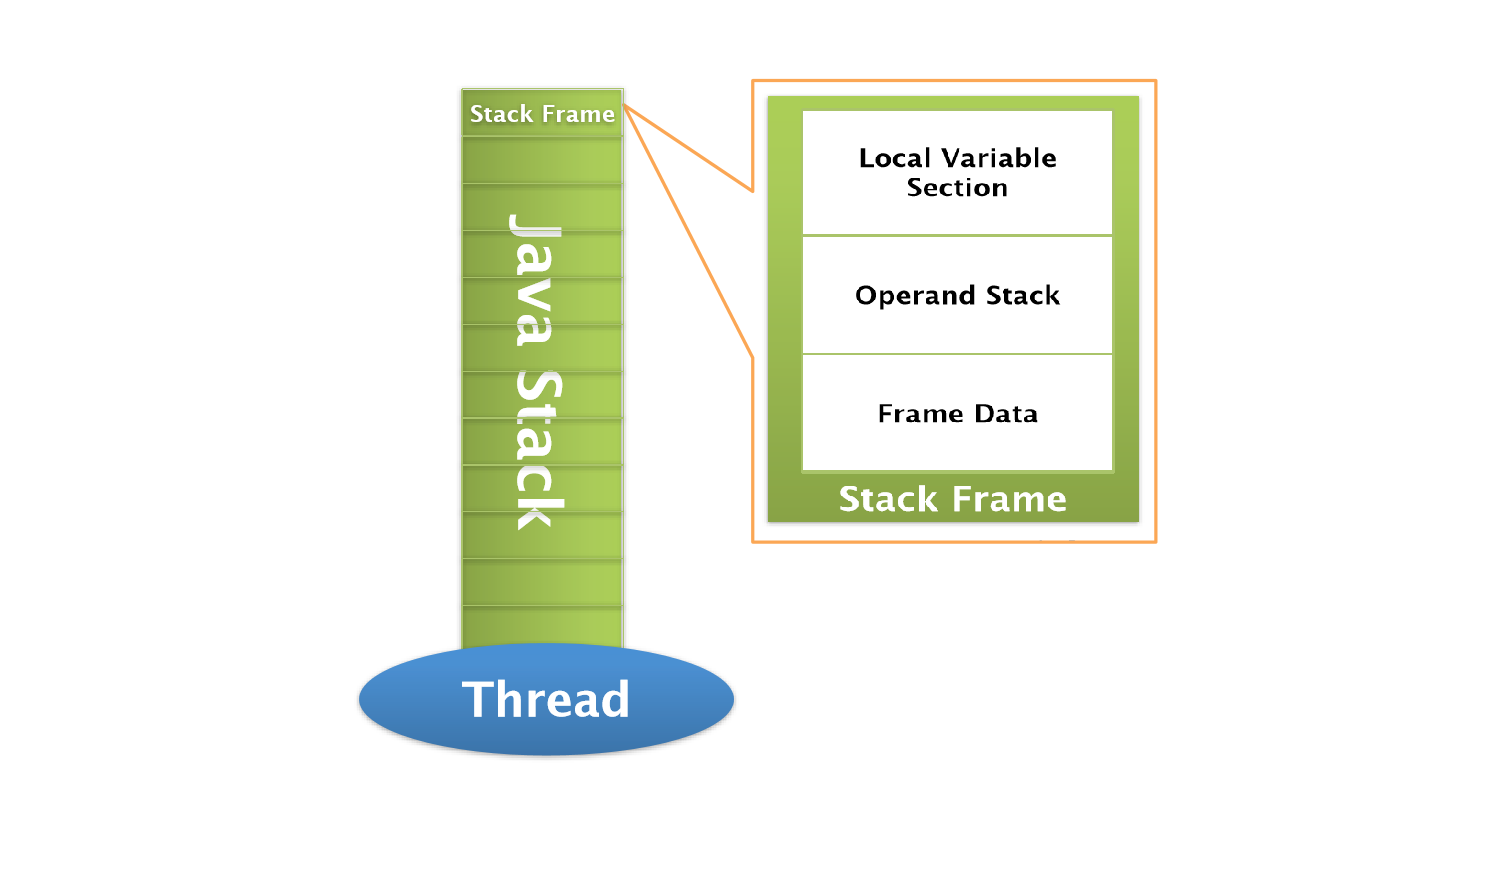
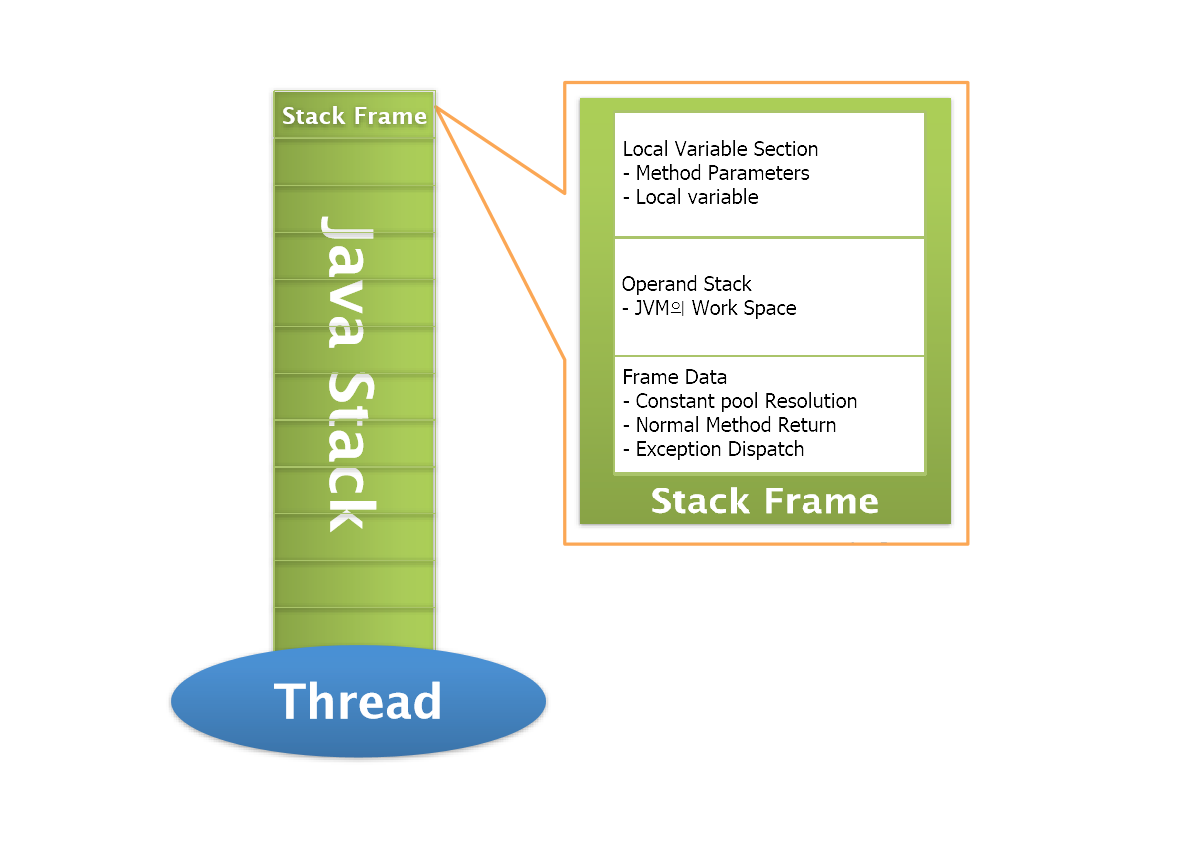
[add] JVM Stacks 정리

Changed region(s): [[0.124, 0.0913, 0.8367, 0.9133]]

diff --git a/java/jvm/ch2/ch2.md b/java/jvm/ch2/ch2.md
@@ -36,31 +36,155 @@ Runtime Data Areas는 각각의 목적에 따라 5개의 영역으로 나뉜다.
 
 프로그램의 실행은 CPU에서 명령어, 즉 인스트럭션(Instruction)을 수행하는 과정에서 이루어진다. CPU는 이러한 Instruction을 수행하는 동안 필요한 정보를 레지스터라는 CPU내의 기억장치를 사용한다. 이 레지스터는 CPU마다 다르게 구현될 수 있는데 보통 하나의 CPU는 수십 개의 레지스터를 가지고 있다.
 
-그러나 Runtime Data Areas의 메모리 영역인 PC Registers는 이것과 다르다. 자바는 Register-Base가 아니라 Stack-Base로 작동한다. JVM은 CPU에 직접 Instruction을 수행하지 않고 Stack에서 Operand를 뽑아내어 이를 별도의 메모리 공간에 저장하는 방식을 취하고 잇다. 이러한 메모리 공간을 PC Registers라고 한다.
+그러나 Runtime Data Areas의 메모리 영역인 PC Registers는 이것과 다르다. 자바는 Register-Base가 아니라 **Stack-Base**로 작동한다. **JVM은 CPU에 직접 Instruction을 수행하지 않고 Stack에서 Operand를 뽑아내어 이를 별도의 메모리 공간에 저장하는 방식**을 취하고 잇다. 이러한 메모리 공간을 PC Registers라고 한다.
 
-JVM이 이러한 방식을 취한 이유는 레지스터는 CPU에 종속된 것이기 때문이다. 자바는 플랫폼에 독립적이지만 머신의 리소스를 사용하기 위해 현재 작업 내용을 CPU에 Instruction으로 제공해야 한다. 이를 ㅜ이한 버퍼공간으로 PC Registers라는 메모리 영역을 생성한 것이다.
+JVM이 이러한 방식을 취한 이유는 레지스터는 CPU에 종속된 것이기 때문이다. 자바는 플랫폼에 독립적이지만 머신의 리소스를 사용하기 위해 현재 작업 내용을 CPU에 Instruction으로 제공해야 한다. 이를 위한 버퍼공간으로 PC Registers라는 메모리 영역을 생성한 것이다.
 
-이 PC Registers에는 각 Thread 마다 하나씩 존재하며 Thread가 시작할 때 생성된다. 만약 Thread가 Java Method를 수행하고 있으면 이 PC Registers에는 현재 수행 중인 Java Virtual Machine Instruction의 주소를 가지고 있게 된다. C어넝 등으로 Native Method를 수행하고 있다면 PC Registers는 undefined상태로 있게 된다. 이 PC Registers에 저장되는 Instruction의 주소는 Native Pointer일수도 Method Bytecode의 시작점 일수도 있다.
+이 PC Registers에는 **각 Thread 마다 하나씩 존재하며 Thread가 시작할 때 생성**된다. 만약 Thread가 Java Method를 수행하고 있으면 이 PC Registers에는 현재 수행 중인 Java Virtual Machine Instruction의 주소를 가지고 있게 된다. C언어 등으로 Native Method를 수행하고 있다면 PC Registers는 undefined상태로 있게 된다. 이 PC Registers에 저장되는 Instruction의 주소는 Native Pointer일수도 Method Bytecode의 시작점 일수도 있다.
 
 Native Method를 수행할 때는 JVM을 거치지 않고 바로 수행하게 된다. 어차피 Native Code는 플랫폼에 종속될 수 밖에 없기 때문에 JVM을 경유할 필요가 없기 때문이다. 
 
 
 
-
-
-
-
 ## Java Virtual Machine Stacks
 
+JVM Stacks은 Thread의 수행 정보를 기록하는 Frame을 저장하는 메모리 영역이다. JVM Stacks도 Thread별로 하나씩 존재하며 Thread가 시작할 때 생성된다. JVM Stacks에 있는 모든 데이터는 각 Thread가 소유하며 다른 Thread는 접근이 불가능하다. 따라서 JVM Stacks에서는 동기화에 대한 이슈가 발생하지 않는다.
+
+JVM Stacks는 Stack Frame들로 구성이 되는데 JVM은 Stack Frame을 JVM Stacks에 push, pop 작업만 수행한다. 흔히 WAS나 Java Application에 문제가 있을때 `kill -3 pid` 로 Stack Trace, Stack Dump를 얻어내어 분석을 하는데 이 때 나타나는 정보가 JVM Stacks의 Stack Frame의 정보이다. Stack Trace는 각 Strack Frame을 한 라인으로 표현한 것이다.
+
+![](C:\pch\TIL\java\jvm\ch2\JVMStack.png)
+
+위는 JVM Stacks의 구조를 나타낸 것이다. JVM Stacks에 있는 여러 Stack Frame중 현재 수행하고 있는 메서드의 정보를 저장하는 것을 Current Frame이라고 한다. 그리고 현재 수행하고 있는 메서드의 클래스를 Current Class라고 한다. JVM이 현재 메서드를 수행하고 있다면 Current Frame을 통해 Current Class와 같은 Current정보를 계속해서 주시하게 된다. 이 Stack Frame에는 메서드의 파라미터 변수, 지역 변수, 연산의 결과 등과 같은 데이터들을 저장하게 된다.
+
+쓰레드가 자바 메서드를 하나 수행하게 되면 JVM은 Stack Frame을 하나 생성하여 JVM Stacks에 push한다. 새로 들어간 Stack Frame은 Current Frame이 된다. 이 메서드가 수행을 마치게 되면 JVM Stacks에서 pop되고 바로 이전의 Stack Frame이 Current Frame이 된다. 만약 메서드가 비정상 종료하게 되면 Exception처리를 하는 작업을 수행한 후 JVM Stacks에서 사라지게 된다.
+
+JVM Stacks 및 Stack Frame은 JVM과 마찬가지로 벤더에서 구현하기 나름이다. 이것은 JVM 구현 벤더의 재량이다.
 
 
-Stack Frame
+
+### Stack Frame
+
+Stack Frame은 쓰레드가 수행하고 있는 어플리케이션을 메서드 단위로 기록하는 곳이다. 메서드의 상태 정보를 저장하는 Stack Frame은 `Local Variable Section, Operand Stack, Frame Data` 세 부분으로 구성되어 있다. Stack Frame은 메서드를 실행하게 되면 클래스의 메타 정보를 이용하여 적절한 크기로 생성된다. 그러나 Stack Frame의 크기는 가변이 아니며 컴파일 타임에 이미 결정된다. 이것은 메서드 내에서 사용하는 변수, 연산에 관련된 내용, 반환값의 타입등이 이미 소스코드내에서 결정되기 때문이다. JVM은 생성된 Stack Frame을 JVM Stacks에 push하고 메서드를 수행한다.
+
+
+
+#### LocalVariable Section
+
+LocalVariable Section은 `메서드의 파라미터 변수`와 `지역변수`들을 저장한다. LocalVariable Section은 배열로 구성되어 있고 인덱스를 통해 데이터에 접근한다. 메서드 파라미터는 선언된 순서로 인덱스가 할당되며 지역 변수는 컴파일러가 알아서 인덱스를 할당한다. 만약 선언만 하고 사용하지 않는 지역 변수가 있다면 인덱스를 할당하지 않을수도 있다.
+
+Stack Frame의 크기는 컴파일 타임에 결정된다고 했다. LocalVariable Section 또한 Stack Frame의 일부이므로 동일하게 적용된다. 지역변수나 파라미터 변수가 Primitive Type인 경우는 고정된 크기로 할당된다. 반면에 객체 타입일 때는 가변 크기이다. 또한 Primitive Type과 객체 타입인 경우 LocalVariable Section에 저장되는 값이 다르다. 
+
+```java
+class JvmInternal {
+    public int testMethod(int a, char b, long c, float d, Object e, doube f, String g, byte b, short i, boolean j) {
+        return 0;
+    }
+}
+```
+
+![](./methodParameter.png)
+
+위의 testMethod()는 10개의 파라미터를 가지며 LocalVariable Section에는 위의 그림과 같이 할당 받게 된다. Primitive Type인 경우 그대로 할당을 받지만, 객체 타입으로 선언한 e, g의 경우 reference형으로 할당을 받는다. 
+
+Java는 모든 객체를 Reference로 넘겨 받으며 모든 객체가 저장되는 곳은 Heap 메모리 영역이다. JVM Stacks, Stack Frame, Local Variable Section에도 Reference를 저장한다. 이 Reference를 이용해서 객체가 저장되어 있는 Heap을 찾아가는 것이다.
+
+따라서 Primitive 타입이 좀더 성능이 좋다는 것을 알 수 있다. 객체 타입은 다시 LocalVariable Section에서 Reference를 타고 Heap으로 넘어가야 하기 때문이다. 이렇게 객체를 찾는 작업은 CPU연산을 필요로 한다. 또한 Heap에 변수 값이 존재한다는 것은 Method Area의 java.lang.someclass의 클래스 정보를 읽어 인스턴스를 생성했다는 것을 의미하기 때문에 이로 인한 CPU자원, 메모리 자원도 추가되었을 것이다.
+
+이상한 점은 char, byte, short, boolean형 선언들이 LocalVariable Section에서는 모두 int형으로 할당된 것을 볼 수 있다. 이것은 Primitive Type이라 하더라도 JVM 지원 여부와 JVM Stacks의 저장 형태에 따라 달라지기 때문이다. boolean형을 제외한 모든 원시타입은 JVM이 직접적으로 지원하는 형태이다. 하지만 byte, short, char은 LocalVariable Section, Operand Stack에서는 int형으로 변환 후 저장되고 Heap 등의 다른 곳에서는 원래의 형으로 원복하여 저장한다.
+
+JVM에서 직접 지원하고 있지 않는 형태의 boolean의 경우도 Stack Frame에서는 int형으로 변경되어 저장된다. 하지만 JVM 내부에서 원복되는 일은 없다. 즉 Heap이나 다른 메모리 영역에서도 int형을 유지하는 것이다.
+
+또 한가지 이상한 점은 인덱스 숫자가 비연속적으로 할당되어 있는 부분이 있다는 것이다. long형, double형에서 인덱스 값이 비연속적인데 그것은 다른 원시타입이 1개의 엔트리로 저장되는데 반해 long, double형은 연속된 2개의 엔트리를 차지하는 대형 타입이기 때문이다. LocalVariable Section에서는 이 두 타입을 찾아갈 때 첫 엔트리의 인덱스를 통해 찾아간다. 
+
+마지막으로 봐야 할 부분은 0번 인덱스에 있다. 0번 인덱스는 `hidden this`라고 되어 있다. 이것은 메서드에서 선언된 적이 없는 파라미터 변수이다. 이것은 Local Method, Instance Method에 무조건 포함되는 것으로 여기에 저장된 Reference를 통해 Heap에 있는 클래스의 인스턴스 데이터를 찾아가게 된다.
+
+하지만 Class Method, 즉 static으로 선언한 메서드의 경우는 이 Reference 정보가 존재하지 않는다. 이것은 인스턴스가 아닌 클래스 자체에 속해 있기 때문이다.
+
+
+
+#### Operand Stack
+
+Operand Stack는 JVM의 작업공간이라 할 수 있다. JVM은 프로그래믕ㄹ  수행함녀서 연산을 위해 사용되는 데이터, 결과를 Operand Stack에 넣고 처리하기 때문이다. 하나의 Instruction이 연산을 위해 Operand Stack에 값을 push하고 다음 Instruction에서 이 값을 pop해서 사용하게 된다. 그리고 그 결과가 다시 Operand Stack에 저장되어 보내지게 된다. (`javap -c 클래스파일`  명령어 사용)
+
+![](./operationProcess.png)
+
+```
+Stack Frame에서 byte, short형은 내부에서 int형으로 변환되어 사용된다. 하지만 값의 범위에 따라 내부적으로 구분되어 -128 ~ -1 & 6 ~ 127 까지의 정수는 byte로 인식된다. 그리고 128 ~ 32767까지는 short로 인식한다. 만약 6을 pushgksekaus byte 범위안이므로 bipush라는 Bytecode로 처리되는 것이다.
+```
+
+
+
+```
+iconst_5 : 상수5를 push
+istore_1 : LocalVariable Section의 1번 인덱스에 값을 저장
+bipush 6 : 상수6을 Stack에 push
+istore_2 : LocalVariable Section의 2번 인덱스에 값을 저장
+iload_1  : LocalVariable Section의 1번 인덱스의 값을 Operand Stack에 로드
+iload_2  : LocalVariable Section의 2번 인덱스의 값을 Operand Stack에 로드
+iadd     : int형의 값들을 더한다. 
+           연산 대상이 되는 Operand Stack 값들이 모두 pop되고 결과값이 push된다. 
+istore_3 : LocalVariable Section의 3번 인덱스에 값을 저장
+return   : 메서드의 수행을 마치고 Stack Frame을 나간다
+```
+
+
+
+#### Frame Data
+
+Stack Frame을 구성하고 있는 또 하나의 영역은 Frame Data이다. 이곳에는 Constant Pool Resolution 정보와 메서드가 정상 종료했을 때의 정보들, 비정상 종료 했을 때 발생하는 Exception 관련 정보들을 저장하고 있다.
+
+먼저 Resolution의 의미를 살펴보자. Class File Format에서 Java는 모든 참조 정보를 Symbolic Reference로 가지고 있다. 이 Symbolic Reference는 JVM에서 실제로 접근할 수 있는 Direct Reference로 변경이 되는데 이러한 것을 Resolution이라 한다. 즉 Symbolic Reference로 표현된 Entry를 찾아 Direct Reference로 변경하는 과정을 말한다.
+
+클래스의 모든 Symbolic Reference는 Method Area의 Constant Pool 에 저장되기 때문에 Resolution을 Constant Pool Resolution 이라고 부르는 것이다. Constant Pool 은 Method Area에서 다룬다.
+
+Frame Data에 저장된 Constant Pool Resolution 정보의 정체는 관련 Constant Pool 의 포인터 정보이다. JVM은 이 포인터를 이용하여 필요할 때마다 Constant Pool 를 찾아간다.
+
+상수를 가져올 때 Constant Pool 의 엔트리 정보를 참조하기도 하지만 다른 클래스를 참조하거나 메서드를 수행하거나 특정 변수들을 접근할 때에도 Constant Pool을 참조해야 한다. 즉 자바의 모든 Reference는 Symbolic Reference 이기 때문에 클래스, 메서드, 변수, 상수에 접근할 때도 Resolution이 수행된다. 그리고 특정 객체가 특정 클래스나 인터페이스에 의존관계가 있는지 확인하기 위해서도 Constant Pool 의 엔트리를 참조한다.
+
+메서드가 수행을 마치고 종료하는 시점에 JVM Stacks에서 해당 Stack Frame이 pop되어 사라진다. 그리고 이전의 메서드를 호출했던 메서드의 Stack Frame이 Current Frame이 된다. 그런데 JVM Stacks에 존재하는 여러 Stack Frame 중에 어떤 Stack Frame으로 찾아 돌아가야 하는 것일까? 그 답은 바로 Frame Data에 있다.
+
+Frame Data에는 자신을 호출한 Stack Frame의 Instruction Pointer가 들어가 있다. 메서드가 종료되면 JVM은 이 정보를 PC Register에 설정하고 Stack Frame을 빠져 나간다. 만약 메서드가 반환값이 있다면 다음번 Current Frame의 Operand Stack에 Push하는 작업도 병행한다.
+
+만약 메서드가 Exception을 발생시키고 강제 종료되었을 경우에는 Exxception을 핸들림 해주어야 한다. 이러한 Excpetion정보를 Frame Data에 저장하고 있다. Frame Data에서 관리하는 Exception정보는 Exception Tabld의 Reference이다. 각 클래스 파일은 Exception Table을 가지고 있는데 Exception이 발생하면 JVM은 이를 참조하여 catch절에 해당하는 Bytecode로 점프하게 된다.
+
+![](./exceptionBytecode.png)
+
+Exception Table은 4가지 요소로 구성된다. 
+
+- from은 try블록이 시작되는 Bytecode의 엔트리 넘버를 의미
+- to는 try블록이 끝나는 엔트리 넘버를 의미
+- target은 try가 발생했을 때 점프해야 할 엔트리 넘버를 의미
+- type은 정의한 Exception을 의미
+
+try블록 내에서 Exception이 발생하거나 Throw되면 이 Exception Object가 type의 클래스 정보와 비교하게 된다. 만약 클래스 정보와 일치하게 되면 target으로 점프하여 수행하고, 일치하지 않으면 JVM은 Current Frame을 종료하고 이 메서드를 호출한 메서드의 Stack Frame에 이 Exception을 다시 던져 처리를 반복한다.
+
+
 
 
 
 ## Native Method Stacks
 
+자바는 자바외의 언어로 작성된 프로그램 등과의 통합을 위해서 JNI(Java Native Interface) 라는 표준 규약을 제공하고 있다. 즉 Native Code로 되어 있는 Fuction의 호출을 Java 프로그램 내에서 직접 수행할 수도 있고 결과 값을 받아 올 수도 있다.
 
+자바의 메서드 호출은 새로운 Stack Frame을 생성하여 쓰레드의 JVM Stack에 push한다. 
+
+Native Method의 경우에는 Native Method Stacks 라는 메모리 공간이 존재한다. 어플리케이션에서 Native Method 를 호출하게 되면 자바 메서드의 Stack Frame이 있는 JVM Stacks를 남겨두고 Native Method Stacks에 새로운 Stack Frame을 생성하여 push하고 여기서 Native Method 를 계속 수행하게 된다.
+
+Native Method Stacks는 작성한 언어에 맞게 생성된다. Native Method 가 C로 작성되어 있었다면 C Stack이 생성되어 수행되고 C++로 작성이 되었다면 C++ Stack이 생성된다. 또한 Native Method 도 역시 Stack Operation을 수행하게 된다. Native Method Stacks는 고정 크기일 필요는 없고 어플리케이션에 따라 확대, 축소가 가능하다.
+
+Native Method 수행이 끝나면 다시 Native Method Stacks에서 나와 해당 쓰레드의 JVM Stacks로 돌아오게 된다. 하지만 Native Method를 호출한 Stack Frame으로 다시 돌아가는 것이 아니라 새로운 Stack Frame을 하나 생성하여 여기서 다시 작업을 수행하게 된다.
+
+아래 그림에서는 쓰레드가 Method1을 수행하다가 Native Method를 Call하고 쓰레드는 다시 NativeMethodStack에 Stack Frame을 생성하여 2개의 함수를 수행하고 다시 돌아온다. 이 때 쓰레드는 JVM Stacks로 돌아오지만 다른 Stack Frame을 생성하여 돌아오고 그후 Method2를 실행한다.
+
+![](./NativeMethodStack.png)
+
+지금까지 JVM Stacks, Native Method Stack에 대해서 설명했다. 하지만 Hotspot JVM, IBM JVM은 두 Stack 영역의 구분을 두지 않고 Native Stack으로 통합이 되어 있다. 이것은 JVM의 쓰레드가 모두 Native Thread라는 것과 관련이 있다. Native Thread를 사용하면서 작업공간인 Stack도 Native Stack으로 통합되어 사용하게 된다. Stack이 통합되었다고 해도 JVM Stacks가 하던 작업 내용이나 방식은 달라진 것은 없다. Java Stack이 단지 Native Stack에 이식된 것으로 보면 된다. 
+
+Hotspot JVM에서 Stack Size를 조정하는 옵션은 -Xss, -Xoss 두가지가 있다. 전자는 쓰레드의 Native Stack Size를 조정하는 옵션이고, 후자는 자바의 Stack Size를 조정하는 옵션이다. 하지만 Hotspot JVM에서는 Stack Size의 조정은 오로지 -Xss만 통해서 하도록 되어 있다.
+
+> JVM에서 Native Memory를 설정하는 방법은 따로 없다. 보통 Native Memory는 가용한 프로세스의 메모리 공간에서 Java Runtime Memory를 뺀 만큼을 사용할 수 있다.  가용한 프로세스의 메모리는 OS와 비트에 따라 다르다. 32비트라면 커널과 공유 메모리 영역을 제외한 2GB 정도 사용가능하다. 64비트라면 거의 무한일거 같지만 실제로는 프로세스에서 할당 받을 수 있는 양을 OS별로 정해놓았다. 
+>
+> Native Memory가 부족할 때도 OutOfMomoryError가 발생하게 된다. 이 경우 Java Runtime Memory를 줄이는 것도 한 방법이지만 Native Momory Leak을 의심해 볼 필요도 있다.
 
 
 
